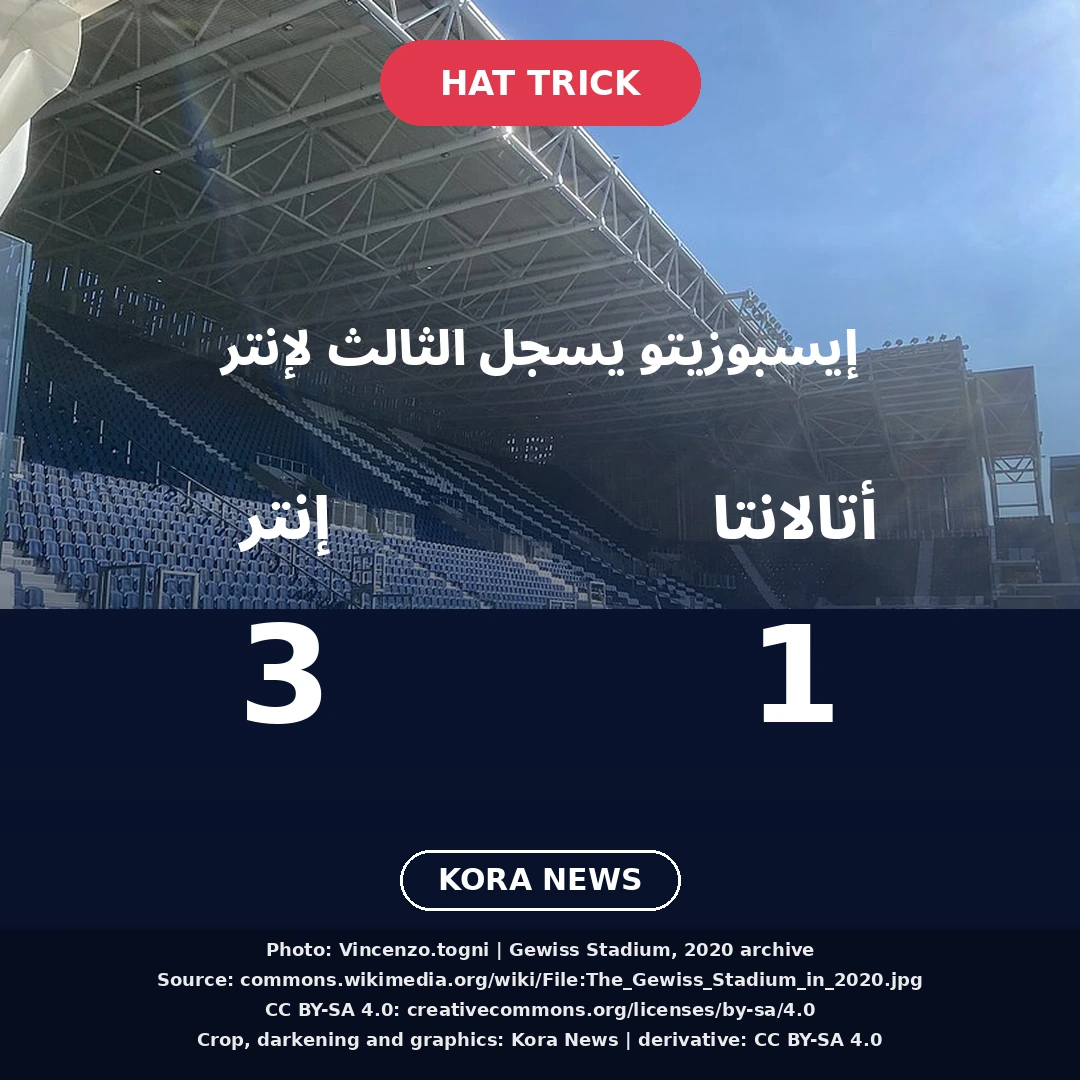
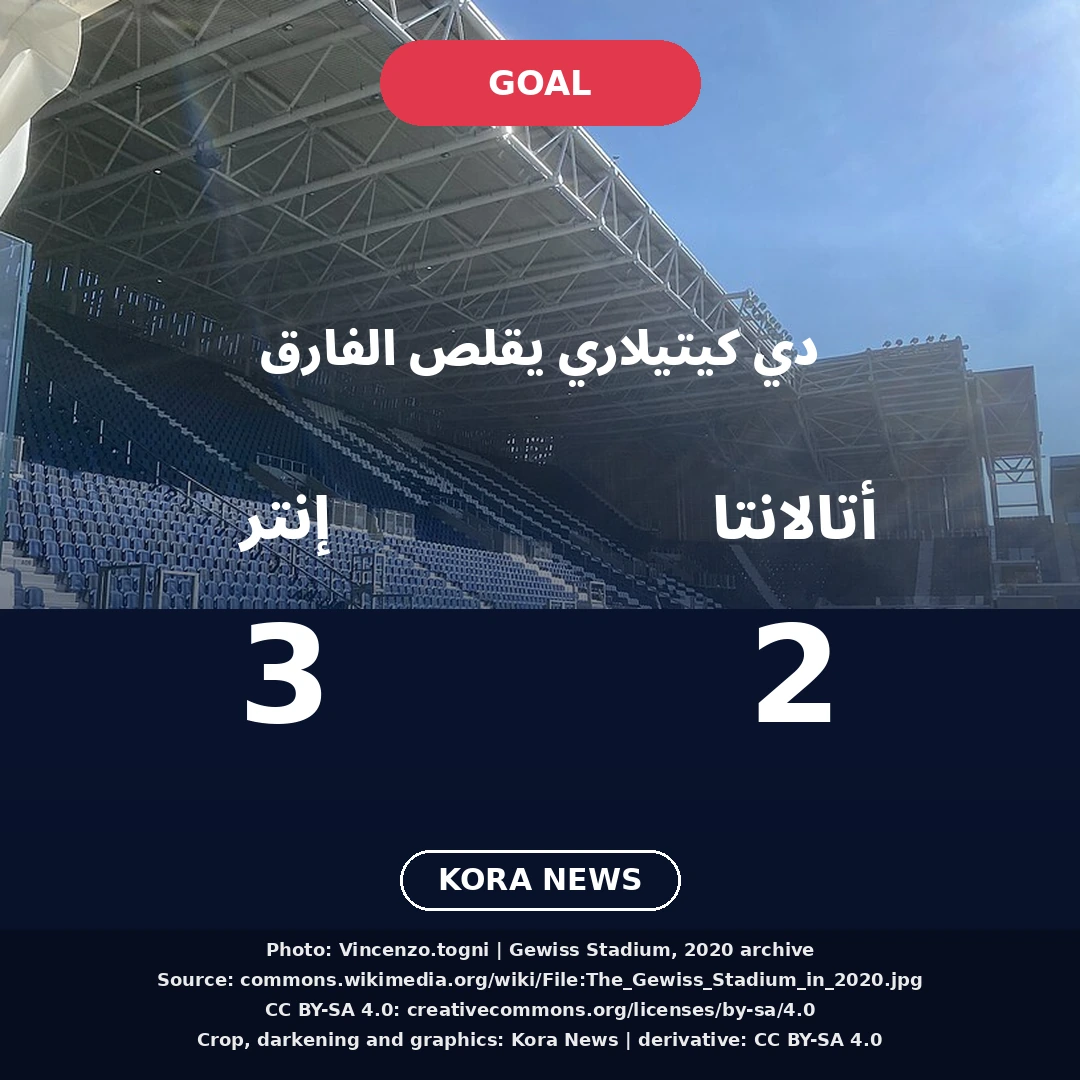
Update Atalanta Inter coverage to 2-3 after De Ketelaere goal

Changed region(s): [[0.2139, 0.3056, 0.7944, 0.3667], [0.3972, 0.0611, 0.6111, 0.0917], [0.7028, 0.5806, 0.7639, 0.6722]]

diff --git a/posts/2026-11-22-atalanta-inter-coverage.md b/posts/2026-11-22-atalanta-inter-coverage.md
@@ -1,13 +1,21 @@
 ---
-title: هاتريك إيسبوزيتو يرفع تقدم إنتر على أتالانتا إلى ثلاثة أهداف مقابل هدف
-date: 2026-11-22T23:03:00+02:00
+title: دي كيتيلاري يقلص الفارق وأتالانتا يتأخر أمام إنتر بهدفين مقابل ثلاثة
+date: 2026-11-22T23:19:00+02:00
 slug: atalanta-inter-coverage
 category: متابعة المباريات
-excerpt: بيو إيسبوزيتو يكمل الهاتريك بهدف في الدقيقة 52، بعد هدفيه في الدقيقتين 16 و32. إنتر متقدم على أتالانتا بثلاثة أهداف مقابل هدف في لقطة موثقة عند 23:03 بتوقيت القاهرة، وليست نهائية.
+excerpt: دي كيتيلاري يسجل لأتالانتا في الدقيقة 72 ويقلص الفارق أمام إنتر إلى هدف، بعد هاتريك إيسبوزيتو. أتالانتا بهدفين وإنتر بثلاثة في لقطة موثقة عند 23:19 بتوقيت القاهرة، وليست نهائية.
 image: atalanta-inter-coverage.webp
 ---
 
-## إيسبوزيتو يكمل الهاتريك، تحديث 23:03 بتوقيت القاهرة
+## دي كيتيلاري يقلص الفارق، تحديث 23:19 بتوقيت القاهرة
+
+سجل شارل دي كيتيلاري هدف أتالانتا الثاني في الدقيقة **72**، ليقلص الفارق أمام إنتر إلى هدف واحد، مع تقدم الضيوف **بثلاثة أهداف مقابل هدفين**.
+
+أكدت [متابعة BBC Sport](https://www.bbc.com/sport/football/live/crq5vgg8pp48t) و[صفحة المباراة في ESPN](https://www.espn.com/soccer/match/_/gameId/401875001) النتيجة وهدف دي كيتيلاري، في مراجعة عند **23:19 بتوقيت القاهرة يوم الأحد 22 نوفمبر 2026**، مع استمرار الشوط الثاني.
+
+**هذه لقطة أثناء اللعب، وليست النتيجة النهائية.** أتالانتا صاحب الأرض ورصيده هدفان، وإنتر الضيف ورصيده ثلاثة أهداف. وسجل إليف إلماس هدف أتالانتا الأول في الدقيقة 35، فيما سجل بيو إيسبوزيتو لإنتر في الدقائق 16 و32 و52.
+
+## إيسبوزيتو يكمل الهاتريك، تحديث سابق عند 23:03 بتوقيت القاهرة
 
 أكمل بيو إيسبوزيتو الهاتريك بهدف في الدقيقة **52**، بعدما سجل لإنتر في الدقيقتين **16 و32**، ليصبح تقدم الضيوف على أتالانتا **ثلاثة أهداف مقابل هدف**. وسجل إليف إلماس هدف أصحاب الأرض في الدقيقة **35**.
 
